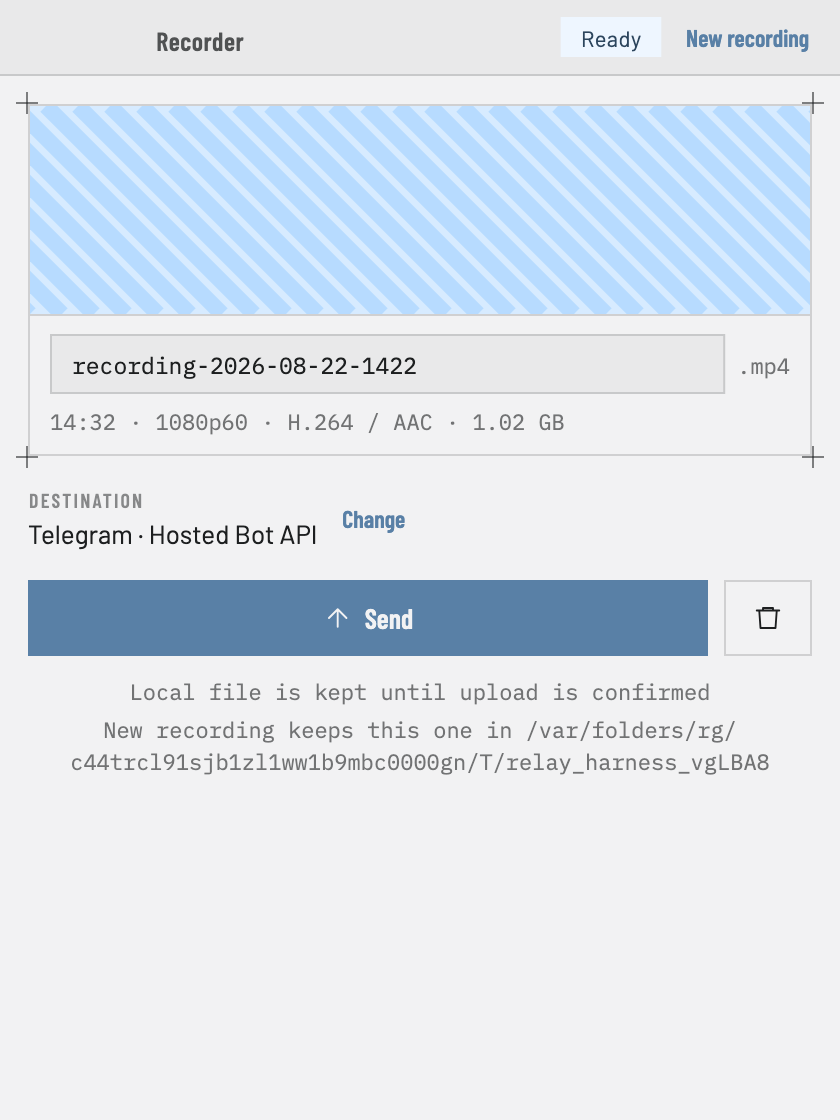
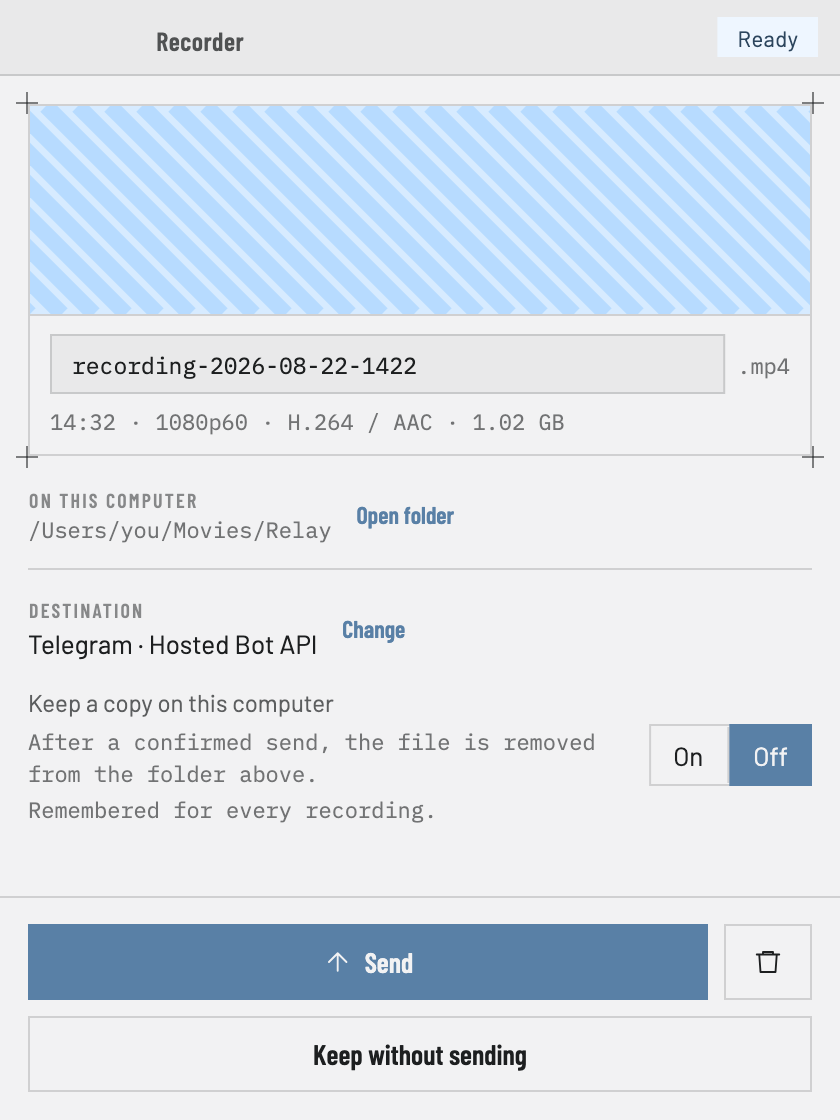
Show the screens as they are now in the README
The recorder picture still offered 720p and 1080p only, and the Ready picture predated the folder row, the keep-a-copy switch and Keep without sending — and printed the render harness's temp directory. Both are re-rendered by test/tools/render_screens_test.dart; the Ready render now uses a folder that reads like the real default instead of the harness's temp path. The strip picture already matched and is unchanged.

diff --git a/test/tools/render_screens_test.dart b/test/tools/render_screens_test.dart
@@ -617,9 +617,14 @@ void main() {
   });
 
   testWidgets('1i ready', (WidgetTester tester) async {
-    final TestHarness harness = await TestHarness.create();
+    // A folder that reads like the real default rather than the harness's temp
+    // directory, which is what the screen prints under `On this computer` — and
+    // this render is also the README's picture of the screen. Not initialized:
+    // that would create the folder, and nothing on this screen needs it.
+    final TestHarness harness = await TestHarness.create(
+      directory: Directory('/Users/you/Movies/Relay'),
+    );
     addTearDown(harness.dispose);
-    await harness.initialize();
     await capture(
       tester,
       '1i_ready',
